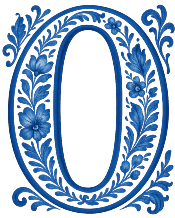
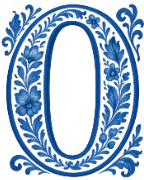
cap letters

diff --git a/css/gzhel.css b/css/gzhel.css
@@ -1350,8 +1350,8 @@ body.article-page .navbar-collapse.show {
 
 .drop-cap {
   float: left;
-  width: 10rem;
-  height: 10rem;
+  width: 12rem;
+  height: 12rem;
   background-size: contain;
   background-repeat: no-repeat;
   background-position: center;
